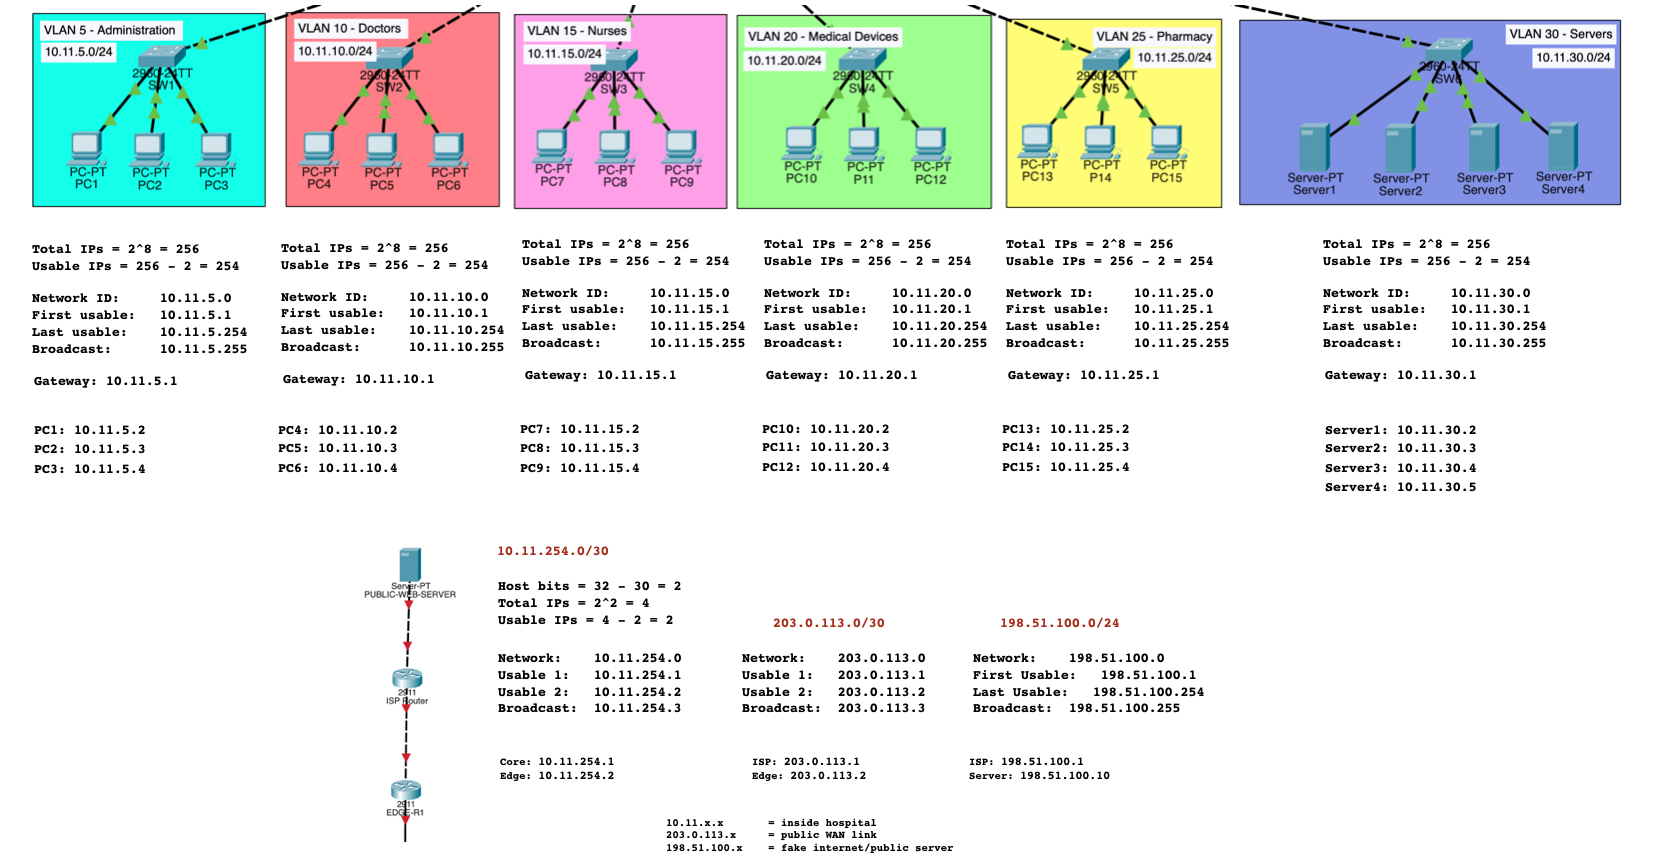
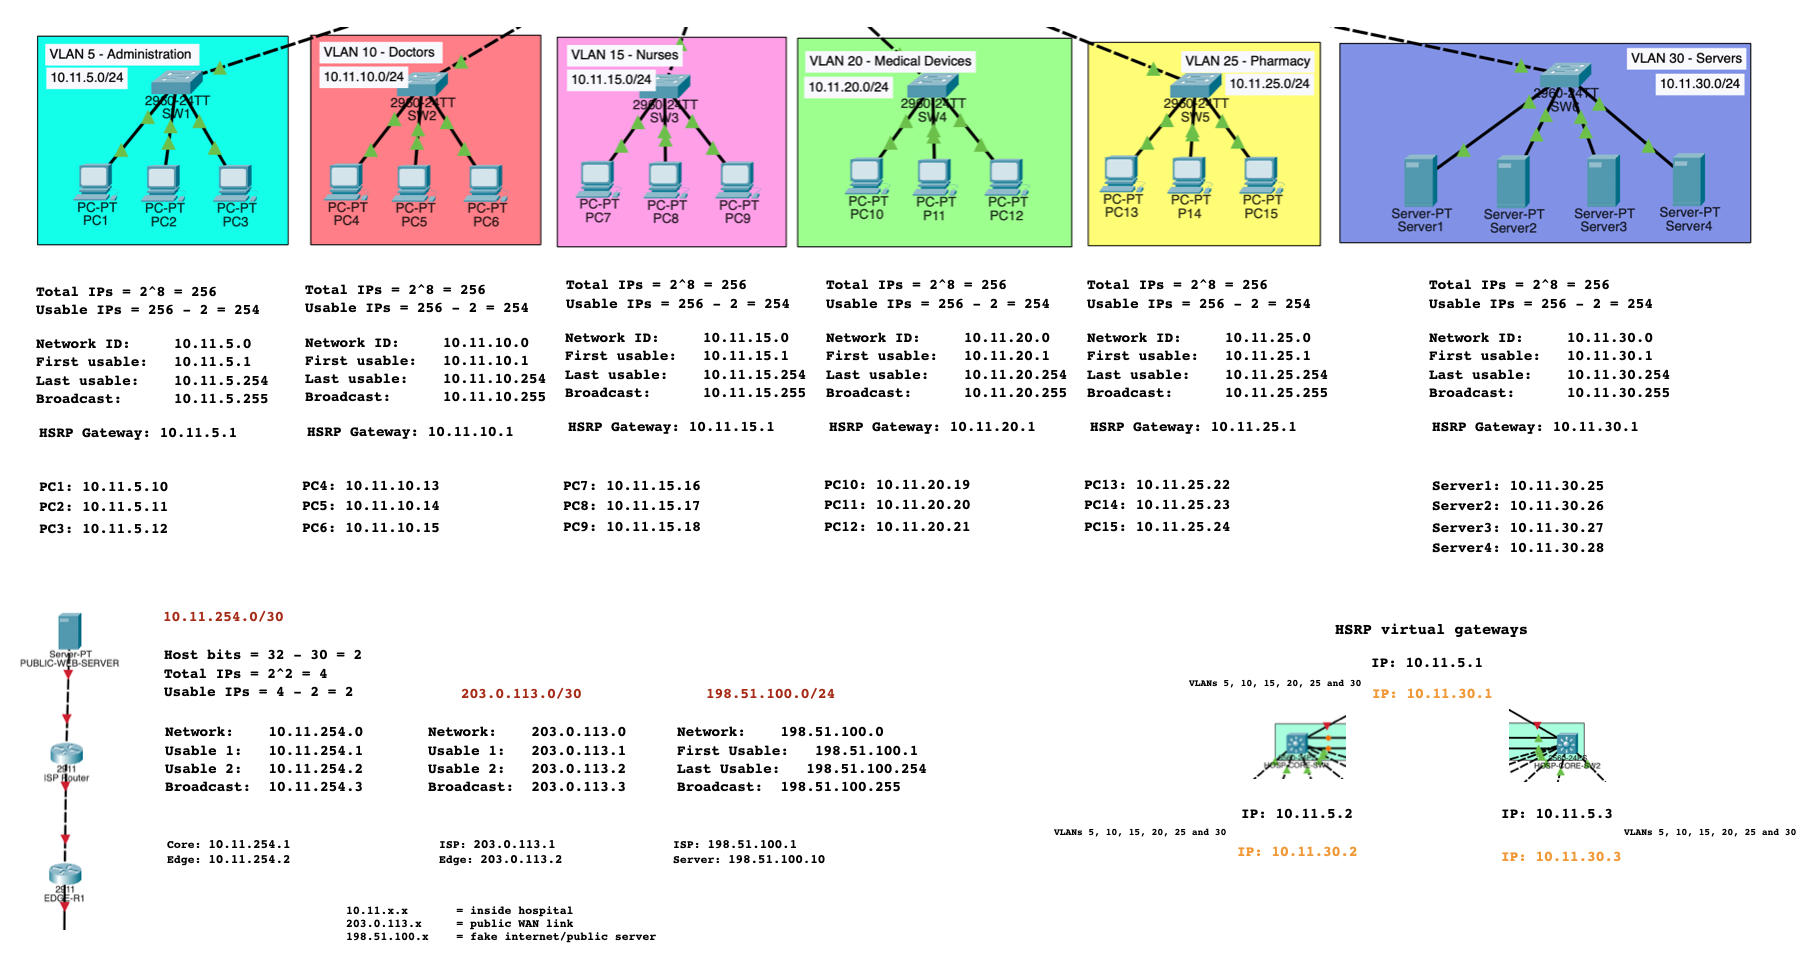
Add HSRP redundancy and update network diagrams

diff --git a/README.md b/README.md
@@ -1,14 +1,10 @@
 # Hospital Network Lab
 
 > **Status: Work in Progress**
->
-> This project is in active development. The current repository includes VLAN segmentation, IP addressing, dual core switches and EtherChannel redundancy. Additional routing, security, monitoring and network services will be added as the lab progresses.
 
-A Cisco Packet Tracer hospital network designed to demonstrate VLAN segmentation, Layer 3 routing, subnetting, IP addressing, redundancy and enterprise network planning.
+A Cisco Packet Tracer hospital network demonstrating VLAN segmentation, Layer 3 switching, subnetting, IP addressing, redundancy and enterprise network design.
 
 ## Network Overview
-
-The network separates hospital departments into dedicated VLANs:
 
 | VLAN | Department      | Subnet        | Gateway    |
 | ---- | --------------- | ------------- | ---------- |
@@ -25,16 +21,16 @@ The network separates hospital departments into dedicated VLANs:
 - Six departmental VLANs
 - Dedicated access switches
 - Inter-VLAN routing
+- EtherChannel core redundancy
+- HSRP gateway redundancy
 - Hospital edge router
 - ISP router and simulated public network
 - Internal server VLAN
 - External public web server
-- Point-to-point WAN links
-- Redundant core-switch connectivity using EtherChannel
 
 ## Logical Topology
 
-![Hospital Network Logical Topology](diagrams/hospital-network-logical-topology.png)
+![Hospital Network Logical Topology](diagrams/Hospital%20Network%20Logical%20Topology%20v1.3.png)
 
 ## VLAN and IP Addressing Plan
 
@@ -42,25 +38,14 @@ The network separates hospital departments into dedicated VLANs:
 
 ## Network Upgrades
 
-### EtherChannel (LACP)
+### EtherChannel using LACP
 
-Two physical FastEthernet links between `HOSP-CORE-SW1` and `HOSP-CORE-SW2` are bundled into one logical Port-Channel using LACP.
-
-![EtherChannel LACP Upgrade](diagrams/etherchannel-lacp.png)
-
-#### Configuration
+Two FastEthernet links between `HOSP-CORE-SW1` and `HOSP-CORE-SW2` are bundled into `Port-Channel 1`.
 
 - Interfaces: `Fa0/8` and `Fa0/9`
-- Logical interface: `Port-Channel 1`
-- Negotiation protocol: LACP
-- LACP mode: Active
-
-#### Benefits
-
-- 200 Mbps aggregate capacity across two 100 Mbps links
-- Link redundancy if one physical connection fails
-- Load balancing across network flows
-- One logical connection from the perspective of Spanning Tree Protocol
+- Protocol: LACP
+- Aggregate capacity: 200 Mbps
+- Provides link redundancy and load balancing
 
 #### Verification
 
@@ -69,17 +54,42 @@ Two physical FastEthernet links between `HOSP-CORE-SW1` and `HOSP-CORE-SW2` are 
 ```
 
 - `S` — Layer 2 EtherChannel
-- `U` — Port-Channel is in use
-- `P` — Interface successfully bundled
+- `U` — Port-Channel is operational
+- `P` — Interface is successfully bundled
+
+### HSRP Gateway Redundancy
+
+HSRP provides a shared virtual default gateway across both multilayer core switches.
+
+#### VLAN 5 Addressing
+
+| Role                 | Address     |
+| -------------------- | ----------- |
+| HSRP virtual gateway | `10.11.5.1` |
+| Core SW1 SVI         | `10.11.5.2` |
+| Core SW2 SVI         | `10.11.5.3` |
+
+- Core SW1 normally operates as Active
+- Core SW2 normally operates as Standby
+- Automatic failover occurs if the Active gateway becomes unavailable
+- PCs continue using `10.11.5.1` as their default gateway
+- The same `.1`, `.2`, `.3` addressing pattern will be used for the remaining VLANs
+
+## Topology Progress
+
+- `v1.0` — Initial VLAN topology
+- `v1.2` — Dual core switches and EtherChannel
+- `v1.3` — HSRP gateway redundancy
 
 ## Repository Contents
 
 ```text
 hospital-network-lab/
 ├── diagrams/
-│   ├── hospital-network-logical-topology.png
-│   ├── hospital-network-vlan-ip-plan.png
-│   └── etherchannel-lacp.png
+│   ├── Hospital Network Logical Topology v1.0.png
+│   ├── Hospital Network Logical Topology v1.2.png
+│   ├── Hospital Network Logical Topology v1.3.png
+│   └── hospital-network-vlan-ip-plan.png
 ├── hospital.pkt
 ├── .gitignore
 └── README.md